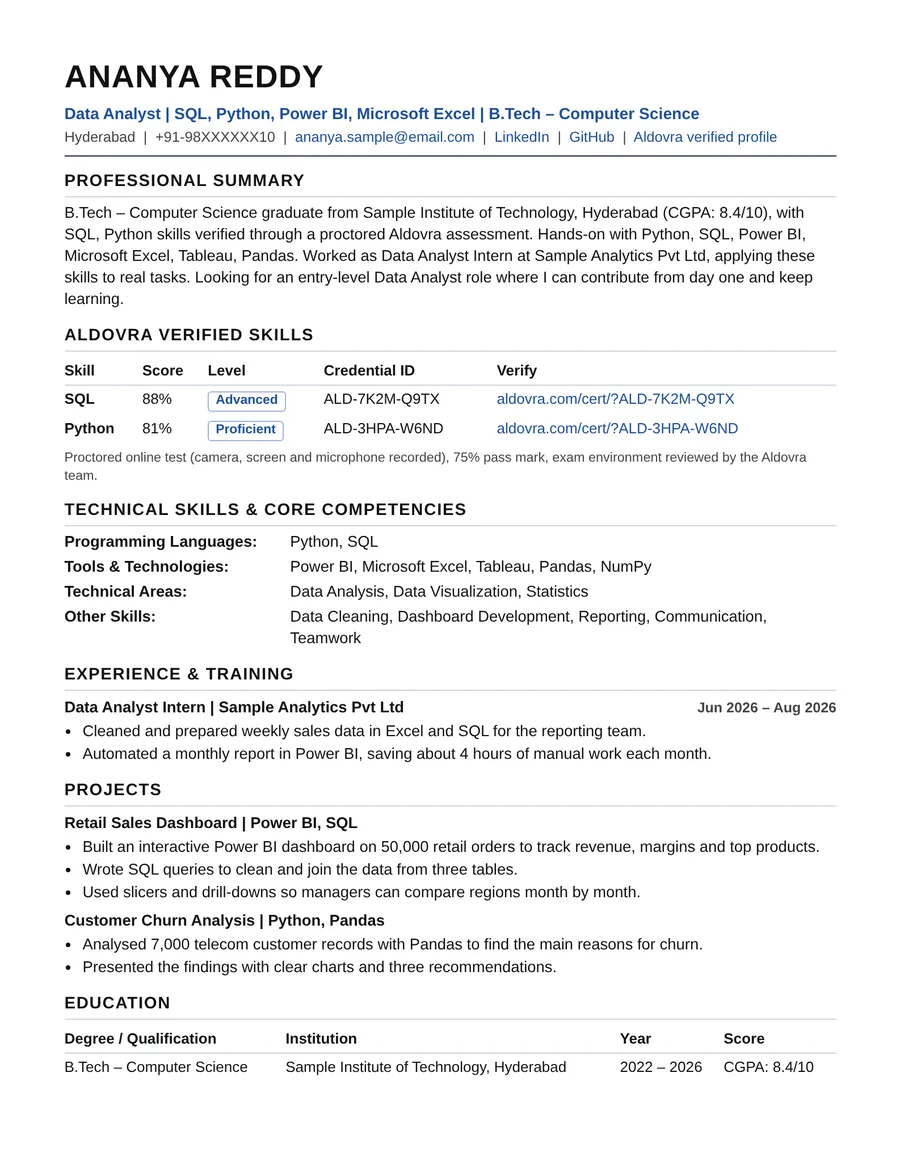
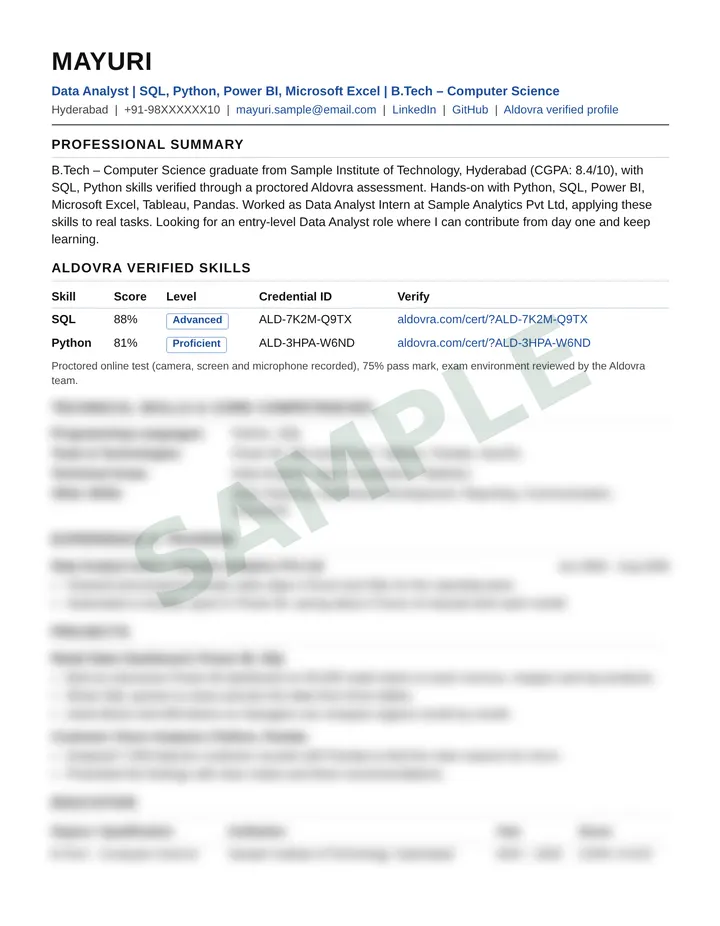
Free resume after 2 verified skills, Mayuri sample (blurred, watermarked), skill-proof copy
Claude-Session: https://claude.ai/code/session_019jV2zAcB7mkc4ACKm9a4UF

diff --git a/privacy.html b/privacy.html
@@ -17,6 +17,6 @@
 <link rel="stylesheet" href="/assets/aldovra-pages.css?v=20261112">
 <link rel="stylesheet" href="/assets/aldovra-brand.css?v=20261112">
 <meta name="theme-color" content="#0d0d12">
-</head><body class="ald-page" data-guide="off"><header><a class="brand" href="index.html">Aldovra</a><a href="index.html">← Back to home</a></header><main><h1>Privacy Policy</h1><p><strong>Last updated: 13 November 2026</strong></p><p>This policy explains how Aldovra may collect and use information when you use the website and platform. The exact data processed depends on the features you use and the services enabled in the current release.</p><h2>1. Information we may collect</h2><ul><li>Account and profile details such as name, email, phone number, education, location and career preferences.</li><li>Resumes and information you choose to provide for resume analysis or career guidance.</li><li>Assessment responses, scores, attempt records and related integrity evidence where the assessment feature explicitly uses it.</li><li>Support messages, feedback, and transaction references if paid services are enabled.</li><li>Technical and usage information needed for security, troubleshooting and platform operation.</li></ul><h2>2. How information is used</h2><p>Information may be used to create and maintain your profile, provide resume insights, deliver assessments, record results, match opportunities, respond to support requests, protect the platform, prevent misuse and meet legal obligations.</p><h2>3. AI and automated processing</h2><p>Some features may use automated or AI-assisted processing to analyse resume text, suggest skills or provide career guidance. These outputs can be incomplete or inaccurate and should be reviewed. Do not upload information you are not authorised to share.</p><h2>4. Sharing and service providers</h2><p>Information may be processed by infrastructure and service providers that support hosting, authentication, databases, AI features, security or payments when those services are enabled. We do not claim that every possible feature or provider is active in every release. Information may also be disclosed when required by law or to protect users and the platform.</p><h2>5. Resumes, assessment evidence and recruiter visibility</h2><p>We aim to use uploaded resumes and assessment information to provide the requested platform features. Where a feature makes a profile or result visible to recruiters, the platform should explain that visibility in the relevant flow. Avoid uploading sensitive personal data that is not needed for your career profile. Contact us if you have questions about visibility or deletion. When you verify a skill, our team may read your uploaded resume and verified results to prepare a resume for you and email it to your registered address.</p><h2>6. Security and retention</h2><p>We use reasonable measures intended to protect information, but no online service can guarantee absolute security. During a monitored assessment we record your camera and screen (stored as compressed images), low-quality audio, and the assessment events. These files are deleted automatically 7 days after an attempt that scores below 75%, 90 days after a passing attempt, and 7 days after an unfinished session. We keep only your two most recent resume files. Your environment video stays on your own YouTube account; we store only its link. Other information is retained for as long as reasonably needed for platform operation, records, dispute handling, security or legal requirements, then deleted or de-identified.</p><h2>7. Your requests</h2><p>You may contact us to request access, correction or deletion of personal information, subject to identity verification and applicable legal or operational retention requirements. We will review requests in accordance with applicable law.</p><h2>8. Children</h2><p>The platform is designed for students and job seekers. If you believe a child has provided personal information inappropriately, contact us so we can review the situation.</p><h2>9. Changes and contact</h2><p>We may update this policy as the platform changes. For privacy questions or requests, email <a href="mailto:support@aldovra.com">support@aldovra.com</a>.</p></main><footer><div class="links"><a href="about.html">About</a><a href="contact.html">Contact</a><a href="terms.html">Terms</a><a href="refund.html">Refunds</a><a href="assessment-pricing.html">Assessment pricing</a><a href="shipping.html">Delivery policy</a></div><p>© 2026 Aldovra. All rights reserved.</p></footer>
+</head><body class="ald-page" data-guide="off"><header><a class="brand" href="index.html">Aldovra</a><a href="index.html">← Back to home</a></header><main><h1>Privacy Policy</h1><p><strong>Last updated: 13 November 2026</strong></p><p>This policy explains how Aldovra may collect and use information when you use the website and platform. The exact data processed depends on the features you use and the services enabled in the current release.</p><h2>1. Information we may collect</h2><ul><li>Account and profile details such as name, email, phone number, education, location and career preferences.</li><li>Resumes and information you choose to provide for resume analysis or career guidance.</li><li>Assessment responses, scores, attempt records and related integrity evidence where the assessment feature explicitly uses it.</li><li>Support messages, feedback, and transaction references if paid services are enabled.</li><li>Technical and usage information needed for security, troubleshooting and platform operation.</li></ul><h2>2. How information is used</h2><p>Information may be used to create and maintain your profile, provide resume insights, deliver assessments, record results, match opportunities, respond to support requests, protect the platform, prevent misuse and meet legal obligations.</p><h2>3. AI and automated processing</h2><p>Some features may use automated or AI-assisted processing to analyse resume text, suggest skills or provide career guidance. These outputs can be incomplete or inaccurate and should be reviewed. Do not upload information you are not authorised to share.</p><h2>4. Sharing and service providers</h2><p>Information may be processed by infrastructure and service providers that support hosting, authentication, databases, AI features, security or payments when those services are enabled. We do not claim that every possible feature or provider is active in every release. Information may also be disclosed when required by law or to protect users and the platform.</p><h2>5. Resumes, assessment evidence and recruiter visibility</h2><p>We aim to use uploaded resumes and assessment information to provide the requested platform features. Where a feature makes a profile or result visible to recruiters, the platform should explain that visibility in the relevant flow. Avoid uploading sensitive personal data that is not needed for your career profile. Contact us if you have questions about visibility or deletion. When you verify skills, our team may read your uploaded resume and verified results to prepare a resume for you and email it to your registered address.</p><h2>6. Security and retention</h2><p>We use reasonable measures intended to protect information, but no online service can guarantee absolute security. During a monitored assessment we record your camera and screen (stored as compressed images), low-quality audio, and the assessment events. These files are deleted automatically 7 days after an attempt that scores below 75%, 90 days after a passing attempt, and 7 days after an unfinished session. We keep only your two most recent resume files. Your environment video stays on your own YouTube account; we store only its link. Other information is retained for as long as reasonably needed for platform operation, records, dispute handling, security or legal requirements, then deleted or de-identified.</p><h2>7. Your requests</h2><p>You may contact us to request access, correction or deletion of personal information, subject to identity verification and applicable legal or operational retention requirements. We will review requests in accordance with applicable law.</p><h2>8. Children</h2><p>The platform is designed for students and job seekers. If you believe a child has provided personal information inappropriately, contact us so we can review the situation.</p><h2>9. Changes and contact</h2><p>We may update this policy as the platform changes. For privacy questions or requests, email <a href="mailto:support@aldovra.com">support@aldovra.com</a>.</p></main><footer><div class="links"><a href="about.html">About</a><a href="contact.html">Contact</a><a href="terms.html">Terms</a><a href="refund.html">Refunds</a><a href="assessment-pricing.html">Assessment pricing</a><a href="shipping.html">Delivery policy</a></div><p>© 2026 Aldovra. All rights reserved.</p></footer>
 <script src="/assets/aldovra-pages.js"></script>
 </body></html>

diff --git a/index.html b/index.html
@@ -732,7 +732,7 @@ section[id], [id].anchor, #top { scroll-margin-top: 96px; }
       </div>
       <div class="why-grid">
         <div class="why-card" data-reveal><span class="wn">01</span><h3>A proof link for LinkedIn and your resume</h3><p>Your verified skills on one page, each with a certificate recruiters can check in seconds.</p></div>
-        <div class="why-card" data-reveal style="--d:80ms"><span class="wn">02</span><h3>A resume made for you</h3><p>After your first verified skill, we prepare a clean resume with your verified skills and email it to you.</p></div>
+        <div class="why-card" data-reveal style="--d:80ms"><span class="wn">02</span><h3>A resume made for you</h3><p>Verify 2 skills and we prepare a clean resume with your skill proof added, and email it to you.</p></div>
         <div class="why-card" data-reveal style="--d:160ms"><span class="wn">03</span><h3>First in line for recruiters</h3><p>We are bringing hiring teams onto Aldovra now. When they search, only verified students appear, so you are in the pool from day one.</p></div>
         <div class="why-card" data-reveal style="--d:240ms"><span class="wn">04</span><h3>Stand out when you apply</h3><p>Proof sets you apart from hundreds of applications that only make a claim.</p></div>
       </div>
@@ -745,22 +745,22 @@ section[id], [id].anchor, #top { scroll-margin-top: 96px; }
     <div class="wrap">
       <div class="rs-wrap" data-reveal>
         <div>
-          <span class="rs-kicker">Free with your first verified skill</span>
-          <h2>Pass one skill. <em>We build your resume.</em></h2>
-          <p class="rs-lead">Most freshers send the same resume as everyone else. Verify a skill on Aldovra and our team prepares a professional resume for you, with proof built in.</p>
+          <span class="rs-kicker">Free when you verify 2 skills</span>
+          <h2>Prove your skills. <em>We build your resume.</em></h2>
+          <p class="rs-lead">Most freshers send the same resume as everyone else. Verify 2 skills on Aldovra and our team prepares a professional resume for you, with your skill proof added.</p>
           <ul class="rs-list">
+            <li><span class="ck">✓</span><span><b>Your skill proof added.</b> Every verified skill with its score, level and a credential link anyone can check in one click.</span></li>
             <li><span class="ck">✓</span><span><b>Clean, ATS-friendly layout</b> that hiring software and HR can read easily.</span></li>
-            <li><span class="ck">✓</span><span><b>Your verified skills with credential links.</b> Anyone can check your score in one click.</span></li>
             <li><span class="ck">✓</span><span><b>Made by our team and emailed to you.</b> No templates to fight with, no extra cost.</span></li>
           </ul>
           <div class="rs-cta">
             <a href="signup.html" class="btn btn-dark" data-magnetic><span>Start your free test</span><span class="arr">→</span></a>
-            <small>First test free. Sample resume shown, details changed.</small>
+            <small>Your first test is free. Sample only; your resume is made for you.</small>
           </div>
         </div>
         <div class="rs-art" aria-hidden="true">
-          <div class="rs-paper"><img src="assets/sample-resume.webp" alt="" width="900" height="1157" loading="lazy" decoding="async"></div>
-          <span class="rs-tag t1"><i></i>Verified SQL · 88%</span>
+          <div class="rs-paper"><img src="assets/sample-resume.webp?v=20261117b" alt="" width="720" height="926" loading="lazy" decoding="async"></div>
+          <span class="rs-tag t1"><i></i>Skill proof added</span>
           <span class="rs-tag t2"><i></i>Credential link included</span>
         </div>
       </div>
@@ -826,7 +826,7 @@ section[id], [id].anchor, #top { scroll-margin-top: 96px; }
       <div class="bands">
         <article class="band v" data-reveal data-band>
           <div class="score">75%+</div>
-          <div><h3>Verified skill</h3><p>Score 75% or above, submit your exam video, and after our review you get a verified certificate, a proof link for LinkedIn and a resume we prepare for you.</p></div>
+          <div><h3>Verified skill</h3><p>Score 75% or above, submit your exam video, and after our review you get a verified certificate, and a proof link for LinkedIn. Verify 2 skills and we prepare your resume too.</p></div>
           <div class="status"><span class="mono">Verified eligible</span></div>
           <div class="band-meter"><i style="--from:75%;--to:100%"></i></div>
         </article>
@@ -960,7 +960,7 @@ section[id], [id].anchor, #top { scroll-margin-top: 96px; }
           <span class="mono">First assessment attempt</span>
           <div class="amt">FREE</div>
           <p class="sub">No payment required for your first attempt.</p>
-          <ul><li>Score + evidence recorded</li><li>75%+ → verified certificate</li><li>Free resume made for you</li></ul>
+          <ul><li>Score + evidence recorded</li><li>75%+ → verified certificate</li><li>Verify 2 skills → free resume</li></ul>
           <a href="before-you-begin.html" class="btn btn-dark" data-magnetic><span>Start free assessment</span><span class="arr">→</span></a>
         </div>
         <div class="price" data-reveal style="--d:100ms">
@@ -1042,7 +1042,7 @@ section[id], [id].anchor, #top { scroll-margin-top: 96px; }
         <div class="faq-item open"><button class="faq-q" type="button" aria-expanded="true">Is the first assessment really free?<span class="pm"></span></button><div class="faq-a"><div><p>Yes. Your first assessment attempt is free. No payment is required. You only pay if you choose to reattempt.</p></div></div></div>
         <div class="faq-item"><button class="faq-q" type="button" aria-expanded="false">What makes a profile “verified”?<span class="pm"></span></button><div class="faq-a"><div><p>A score of 75% or above makes your skill profile eligible to be shown as a verified profile for HR and recruiter preview and further hiring steps.</p></div></div></div>
         <div class="faq-item"><button class="faq-q" type="button" aria-expanded="false">How much does a reattempt cost?<span class="pm"></span></button><div class="faq-a"><div><p>Every reattempt costs ₹49, whatever your score. There is a 24-hour gap between attempts, and you can take up to 10 attempts of a skill in 30 days. Each attempt has new questions.</p></div></div></div>
-        <div class="faq-item"><button class="faq-q" type="button" aria-expanded="false">Why pay to verify a skill if I can just list it?<span class="pm"></span></button><div class="faq-a"><div><p>Anyone can list a skill. A verified skill comes with a proctored score and a certificate link that recruiters can check, a resume we prepare for you, and a place in the verified pool that recruiters joining Aldovra search. Your first test is free. We never charge for jobs, and we don't guarantee interviews.</p></div></div></div>
+        <div class="faq-item"><button class="faq-q" type="button" aria-expanded="false">Why pay to verify a skill if I can just list it?<span class="pm"></span></button><div class="faq-a"><div><p>Anyone can list a skill. A verified skill comes with a proctored score and a certificate link that recruiters can check, a resume we prepare for you once 2 skills are verified, and a place in the verified pool that recruiters joining Aldovra search. Your first test is free. We never charge for jobs, and we don't guarantee interviews.</p></div></div></div>
         <div class="faq-item"><button class="faq-q" type="button" aria-expanded="false">Does Aldovra replace my resume?<span class="pm"></span></button><div class="faq-a"><div><p>No. Aldovra adds a skill-verification layer so hiring teams can review assessment-backed information alongside your broader profile.</p></div></div></div>
         <div class="faq-item"><button class="faq-q" type="button" aria-expanded="false">Where do the fresher jobs come from?<span class="pm"></span></button><div class="faq-a"><div><p>From companies' own career pages, filtered for fresher and entry-level roles in India. New roles are added every day and links are re-checked regularly, so closed jobs are removed automatically. You'll find them in your student dashboard after you sign up.</p></div></div></div>
         <div class="faq-item"><button class="faq-q" type="button" aria-expanded="false">Which profiles can recruiters see?<span class="pm"></span></button><div class="faq-a"><div><p>Only profiles with a score of 75% or above are eligible to be shown as verified profiles for HR and recruiter preview.</p></div></div></div>

diff --git a/assets/dashboard/dash-motivate.js b/assets/dashboard/dash-motivate.js
@@ -125,7 +125,7 @@
     } catch (e) { /* the card is optional */ } finally { bundleBusy = false; }
   }
 
-  /* ---- Free resume card on Overview (17 Nov 2026): the benefit students get after their first verified skill ---- */
+  /* ---- Free resume card on Overview (17 Nov 2026): the benefit students get after 2 verified skills ---- */
   async function renderResumeCard() {
     var uid = window.currentUser && window.currentUser.id;
     var anchor = document.querySelector(".aldm") || document.querySelector(".overview-hero");
@@ -139,15 +139,22 @@
     var el = document.createElement("section");
     el.id = "aldResumeCard";
     el.className = "aldmo-resume";
+    /* 17 Nov 2026: the free resume needs 2 verified skills (one free + at least one paid test). */
+    var NEED = 2, left = Math.max(0, NEED - certs);
+    var kicker = left ? "Free when you verify " + NEED + " skills" : "Your free resume";
+    var title = left === 0 ? "We are preparing your resume" : left === 1 ? "One more verified skill. <em>Then we build your resume.</em>" : "Prove your skills. <em>We build your resume.</em>";
+    var text = left === 0
+      ? "You have " + certs + " verified skills. Our team is preparing a professional resume with your skill proof added, and will email it to you."
+      : left === 1
+        ? "You have 1 verified skill. Verify one more and our team prepares a professional, ATS-friendly resume with your skill proof added (score, level and credential link for each skill), and emails it to you."
+        : "Verify 2 skills (75% or more with an approved video). Our team then prepares a professional, ATS-friendly resume with your skill proof added, and emails it to you. No extra cost.";
     el.innerHTML =
-      '<div class="aldmo-rtext"><span class="aldmo-bk">' + (certs ? "Your free resume" : "Free with your first verified skill") + "</span>" +
-      "<h3>" + (certs ? "We are preparing your resume" : "Pass one skill. <em>We build your resume.</em>") + "</h3>" +
-      "<p>" + (certs
-        ? "You have " + certs + " verified skill" + (certs === 1 ? "" : "s") + ". Our team is preparing a professional resume with your verified skills and credential links, and will email it to you."
-        : "Score 75% or more and get your video approved. Our team then prepares a professional, ATS-friendly resume with your verified skills and credential links, and emails it to you. No extra cost.") + "</p>" +
-      '<div class="aldmo-ract">' + (certs ? "" : '<button type="button" class="aldmo-btn" data-ald-go="assessments">Go to my tests</button>') +
-      '<a class="aldmo-btn2" href="/assets/sample-resume.webp" target="_blank" rel="noopener">See a sample resume</a></div></div>' +
-      '<a class="aldmo-rimg" href="/assets/sample-resume.webp" target="_blank" rel="noopener" aria-label="See a sample resume"><img src="/assets/sample-resume.webp" alt="" loading="lazy" width="900" height="1157"></a>';
+      '<div class="aldmo-rtext"><span class="aldmo-bk">' + kicker + "</span><h3>" + title + "</h3><p>" + text + "</p>" +
+      '<div class="aldmo-ract">' + (left ? '<button type="button" class="aldmo-btn" data-ald-go="assessments">Go to my tests</button>' : "") +
+      '<a class="aldmo-btn2" href="/assets/sample-resume.webp?v=20261117b" target="_blank" rel="noopener">See a sample resume</a></div>' +
+      (left ? '<ol class="aldmo-rsteps" aria-label="Resume progress">' + [0, 1].map(function (i) { return '<li class="' + (i < certs ? "done" : "") + '">Skill ' + (i + 1) + (i < certs ? " verified" : "") + "</li>"; }).join("") + '<li class="' + (left ? "" : "done") + '">Resume</li></ol>' : "") +
+      "</div>" +
+      '<a class="aldmo-rimg" href="/assets/sample-resume.webp?v=20261117b" target="_blank" rel="noopener" aria-label="See a sample resume"><img src="/assets/sample-resume.webp?v=20261117b" alt="" loading="lazy" width="720" height="926"></a>';
     anchor.parentNode.insertBefore(el, anchor.nextSibling);
     var go = el.querySelector("[data-ald-go]");
     if (go) go.onclick = function () { var nav = document.querySelector('.sidebar .nav-item[data-section="assessments"]'); if (nav) nav.click(); };

diff --git a/dashboard.html b/dashboard.html
@@ -59,7 +59,7 @@
 <link rel="stylesheet" href="/assets/aldovra-polish.css?v=20261113e">
 <link rel="stylesheet" href="/assets/dashboard/dash-jobs-value.css?v=e1bb3628">
 <link rel="stylesheet" href="/assets/dashboard/dash-welcome.css?v=3f91e5f0">
-<link rel="stylesheet" href="/assets/dashboard/dash-mission.css?v=9aaa81d1">
+<link rel="stylesheet" href="/assets/dashboard/dash-mission.css?v=87cb4d6e">
 <meta name="theme-color" content="#0d0d12">
 </head>
 <body>
@@ -2179,11 +2179,11 @@ box-sizing:border-box;
 <script src="https://cdn.jsdelivr.net/npm/@supabase/supabase-js@2"></script>
 <script src="/assets/aldovra-resume-skills.js?v=20261112"></script>
 <script src="/assets/aldovra-evidence-viewer.js?v=20261112"></script>
-<script src="/assets/aldovra-result-review.js?v=20261117"></script>
+<script src="/assets/aldovra-result-review.js?v=20261117b"></script>
 <script src="/assets/dashboard/dash-main.js?v=16277d0f"></script>
 <script src="/assets/dashboard/dash-welcome.js?v=edea0cab"></script>
-<script src="/assets/dashboard/dash-motivate.js?v=a78ddabb"></script>
-<script src="/assets/dashboard/dash-mission.js?v=5e15d48d"></script>
+<script src="/assets/dashboard/dash-motivate.js?v=d4aa57dd"></script>
+<script src="/assets/dashboard/dash-mission.js?v=c8898731"></script>
 <script src="/assets/dashboard/dash-notify.js?v=f60238ca"></script>
 <script src="/assets/dashboard/dash-account.js?v=0acebd6b"></script>
 
@@ -2224,7 +2224,7 @@ box-sizing:border-box;
 
 <script src="/assets/dashboard/dash-company-domains.js?v=5d8210d4"></script>
 <script src="/assets/dashboard/dash-jobs.js?v=df9a686a"></script>
-<script src="/assets/dashboard/dash-jobs-value.js?v=bfb54eff"></script>
+<script src="/assets/dashboard/dash-jobs-value.js?v=3d2b4ae0"></script>
 
 <script id="aldovra-profile-modal-root-fix" src="/assets/dashboard/dash-profile-modal-fix.js?v=b5a75d18"></script>
 

diff --git a/assets/aldovra-result-review.js b/assets/aldovra-result-review.js
@@ -189,7 +189,7 @@
       nextHtml = '<section class="rr-card rr-next"><h3>What happens next</h3><p>Reviews usually finish within 24–48 hours. Keep the video Unlisted (not Private) until then.</p>' + track +
         (m.videoUrl ? '<div class="rr-actions" style="margin-top:14px"><a class="rr-btn" href="' + esc(m.videoUrl) + '" target="_blank" rel="noopener">▶ Open submitted video</a></div>' : "") + "</section>";
     } else if (state === "verified") {
-      nextHtml = '<section class="rr-card rr-next"><h3>Make it count</h3><p>Verified skills earn Arena points, show on your public profile and certificate, and go on the resume we prepare for you.</p>' + track +
+      nextHtml = '<section class="rr-card rr-next"><h3>Make it count</h3><p>Verified skills earn Arena points, show on your public profile and certificate, and count towards the free resume we prepare once you have 2 verified skills.</p>' + track +
         '<div class="rr-actions" style="margin-top:14px"><a class="rr-btn" href="#jobs" data-rr-close>Explore fresher jobs →</a><a class="rr-btn" href="#leaderboard" data-rr-close>See your Arena rank</a></div></section>';
     } else if (state === "reattempt" || state === "unverified") {
       /* Retry plan (17 Nov 2026): a failed attempt should still leave the student with a clear plan. */

diff --git a/assets/dashboard/dash-mission.css b/assets/dashboard/dash-mission.css
@@ -147,3 +147,8 @@ body.dark .aldmo-ract .btn-secondary,[data-theme="dark"] .aldmo-ract .btn-second
 .aldmo-btn2{background:#fff;color:#0d0d12;border:1px solid #e4e1d8}
 .aldmo-btn2:hover{border-color:#14532d;color:#14532d}
 body.dark .aldmo-btn2,[data-theme="dark"] .aldmo-btn2{background:#1b1f1c;border-color:#2a2e2b;color:#f3f2ee}
+.aldmo-rsteps{list-style:none;display:flex;gap:6px;padding:0;margin:14px 0 0;flex-wrap:wrap}
+.aldmo-rsteps li{font-size:12px;padding:4px 10px;border-radius:999px;border:1px dashed #cfcbbf;color:#6b6b75}
+.aldmo-rsteps li.done{border-style:solid;border-color:#14532d;background:#e3efe5;color:#0f3d22;font-weight:600}
+body.dark .aldmo-rsteps li,[data-theme="dark"] .aldmo-rsteps li{border-color:#3a3f3b;color:#b9b9c2}
+body.dark .aldmo-rsteps li.done,[data-theme="dark"] .aldmo-rsteps li.done{background:rgba(124,196,149,.14);border-color:#7cc495;color:#cfe9d7}

diff --git a/assets/dashboard/dash-mission.js b/assets/dashboard/dash-mission.js
@@ -215,7 +215,7 @@
       "</div>" +
       '<div class="aldm-side">' + stepsHtml(done) +
         (expect ? '<div class="aldm-expect"><b>What to expect</b><ul>' + expectList(s.req).map(function (e) { return "<li>" + svg(e[0]) + esc(e[1]) + "</li>"; }).join("") + "</ul></div>" :
-          '<div class="aldm-reward"><b>When you’re verified</b><ul><li>' + svg("badge") + "Certificate + proof link for LinkedIn</li><li>" + svg("check") + "A resume we prepare for you</li><li>" + svg("share") + "In the verified pool for recruiters</li></ul></div>") +
+          '<div class="aldm-reward"><b>When you’re verified</b><ul><li>' + svg("badge") + "Certificate + proof link for LinkedIn</li><li>" + svg("check") + "Verify 2 skills: a resume we prepare for you</li><li>" + svg("share") + "In the verified pool for recruiters</li></ul></div>") +
       "</div>";
     showDemand(el, s);
   }

diff --git a/assets/dashboard/dash-jobs-value.js b/assets/dashboard/dash-jobs-value.js
@@ -82,7 +82,7 @@
     } else {
       card.classList.remove("is-done");
       h.innerHTML = "Verified skills get you <em>noticed first.</em>";
-      perks.innerHTML = "<li>Proof link for LinkedIn and your resume</li><li>A resume we prepare for you</li><li>In the verified pool for recruiters joining Aldovra</li><li>Unlock the Verified matches tab</li>";
+      perks.innerHTML = "<li>Proof link for LinkedIn and your resume</li><li>Verify 2 skills: a resume we prepare for you</li><li>In the verified pool for recruiters joining Aldovra</li><li>Unlock the Verified matches tab</li>";
       btn.textContent = ready > 0 ? "Start free assessment" : "See assessments";
       btn.onclick = goAssessments;
       note.textContent = ready > 0 ? ready + " skill" + (ready === 1 ? "" : "s") + " from your resume ready" : "Upload your resume to get skill tests";

diff --git a/assessment.html b/assessment.html
@@ -4454,7 +4454,7 @@ init();
 
 <script src="/assets/aldovra-mascot.js?v=20261112"></script>
 <script src="/assets/aldovra-proctor.js?v=20261112"></script>
-<script src="/assets/aldovra-result-review.js?v=20261117"></script>
+<script src="/assets/aldovra-result-review.js?v=20261117b"></script>
 <script src="/assets/aldovra-result.js?v=20261117"></script>
 <script src="/assets/aldovra-envguide.js?v=20261113"></script>
 <script src="/assets/aldovra-envgate.js?v=20261113"></script>

diff --git a/CLAUDE.md b/CLAUDE.md
@@ -73,7 +73,7 @@ Goal: show students only live fresher or entry-level jobs in India, with new job
 
 ## Payments (Razorpay, PayU fallback)
 - Razorpay (13 Nov 2026): new account as a registered Sole Proprietorship (Udyam + S&E, no GST), category Education, website aldovra.com approved, brand name ALDOVRA on checkout and UPI. Live keys are in Supabase secrets `RAZORPAY_KEY_ID` / `RAZORPAY_KEY_SECRET`. `platform_settings.payment_provider` = `"razorpay"` | `"payu"` (anon RPC `payment_provider()`; migration `20261113170000_payment_provider_razorpay.sql`). `create-payu-payment` (name kept) runs all the fee/cooldown/cap checks, then for Razorpay creates an order (`/v1/orders`, receipt `ALDR|ALDS<request>-<ts>`) and an `assessment_payments` row (`provider='razorpay'`, `razorpay_order_id`); the dashboard (`aldovraOpenCheckout()` in dash-main.js) loads checkout.js and opens the modal (name ALDOVRA, green theme). On success it calls `verify-razorpay-payment` ({order_id,payment_id,signature}), which trusts only Razorpay's `/orders/{id}/payments` (captures an `authorized` payment if needed), marks paid and approves new-skill requests, then redirects to `dashboard.html?payment=success|pending`. The dashboard also calls it with `{reconcile:true}` 4 s after load to settle orders whose tab closed (last 3 days, max 5); orders with no successful payment after 2 h are marked failed. No webhook yet (optional later: `payment.captured` with a webhook secret). Consent versions: `2026-11-13` (PayU wording, proprietor name) and `2026-11-13-rzp` (Razorpay wording, receiver ALDOVRA); the dialog picks by `window.ALDOVRA_PAY_PROVIDER`. Policy pages say Razorpay with PayU as backup. Go-live: ₹50 reattempt test with Shiva bhai (request 9, 68%) → refund from the Razorpay dashboard → set `reattempt_payments_live = true`.
-- Pricing rules (changed 17 Nov 2026, founder's choice; the old 27 Oct rule was ₹50/₹100 by score and 4 attempts per 30 days): the first assessment is free; every later new-skill unlock and every reattempt is a flat **₹49** (`FEE` in `create-payu-payment`); 24 h cooldown; at most **10 attempts per skill per rolling 30 days** (`MAX_ATTEMPTS_30D`, also in generate-assessment, dash-main.js and assessment.html). Resume bundle: `{bundle:true}` to create-payu-payment (Razorpay only) unlocks every `payment_pending` skill of the student in one order, price `bundlePrice(n) = floor((n*49*0.85+1)/10)*10-1` (2→₹79, 3→₹119, 4→₹159, 5→₹199), stored as `purpose='bundle'` + `assessment_payments.bundle_request_ids`; verify-razorpay-payment approves those requests. Trigger `assessment_requests_flat_fee` forces any stored `unlock_fee` to 49 (migration `20261117190000_flat_fee_bundle.sql`). Dashboard: bundle card `#aldBundle` under the Assessments header and free-resume card `#aldResumeCard` under the next-step card (both in dash-motivate.js, `window.AldMotivate`, styles + `.aldmo-btn` in dash-mission.css), "One price for every test · no subscription" chip on rows with a pay button, `aldovraStartBundle()` in dash-main.js (pay dialog says "for N skill tests"). Failed results show "Your retry plan" (correct answers still needed for 75%, two weakest topics, next attempt time) in aldovra-result-review.js. Homepage: `#free-resume` section with `assets/sample-resume.webp` (fictional "Ananya Reddy" rendered by admin-resume.html), pricing cards Free / ₹49 / Resume bundle. Public copy (pricing, terms §4, refund §1, get-started, before-you-begin, index FAQ) states the same. Exams now require only `profiles.full_name` + an analysed resume (generate-assessment had still enforced the removed 9-field profile wall incl. bio/GitHub/LinkedIn until 17 Nov 2026).
+- Pricing rules (changed 17 Nov 2026, founder's choice; the old 27 Oct rule was ₹50/₹100 by score and 4 attempts per 30 days): the first assessment is free; every later new-skill unlock and every reattempt is a flat **₹49** (`FEE` in `create-payu-payment`); 24 h cooldown; at most **10 attempts per skill per rolling 30 days** (`MAX_ATTEMPTS_30D`, also in generate-assessment, dash-main.js and assessment.html). Resume bundle: `{bundle:true}` to create-payu-payment (Razorpay only) unlocks every `payment_pending` skill of the student in one order, price `bundlePrice(n) = floor((n*49*0.85+1)/10)*10-1` (2→₹79, 3→₹119, 4→₹159, 5→₹199), stored as `purpose='bundle'` + `assessment_payments.bundle_request_ids`; verify-razorpay-payment approves those requests. Trigger `assessment_requests_flat_fee` forces any stored `unlock_fee` to 49 (migration `20261117190000_flat_fee_bundle.sql`). Dashboard: bundle card `#aldBundle` under the Assessments header and free-resume card `#aldResumeCard` under the next-step card (both in dash-motivate.js, `window.AldMotivate`, styles + `.aldmo-btn` in dash-mission.css), "One price for every test · no subscription" chip on rows with a pay button, `aldovraStartBundle()` in dash-main.js (pay dialog says "for N skill tests"). Failed results show "Your retry plan" (correct answers still needed for 75%, two weakest topics, next attempt time) in aldovra-result-review.js. Homepage: `#free-resume` section ("Prove your skills. We build your resume.") with `assets/sample-resume.webp` (fictional "Mayuri", founder's choice, rendered by admin-resume.html, 720 px, everything below the Verified Skills table blurred + a SAMPLE watermark so unverified students cannot copy the full layout), pricing cards Free / ₹49 / Resume bundle. The free resume needs **2 verified skills** (founder, 17 Nov 2026: with 1 it would come from the free test alone and nobody would pay for a second test); homepage, why-verify card, FAQ, mission/jobs perks, result view and the dashboard card (progress chips Skill 1 / Skill 2 / Resume) all say so; admin "Make resume" still works for anyone. Public copy (pricing, terms §4, refund §1, get-started, before-you-begin, index FAQ) states the same. Exams now require only `profiles.full_name` + an analysed resume (generate-assessment had still enforced the removed 9-field profile wall incl. bio/GitHub/LinkedIn until 17 Nov 2026).
 - New skill flow: `create-assessment-request`, when payments are live and the student already has a request, creates the request with `status='payment_pending'` plus `unlock_fee`. The dashboard shows "Pay ₹X to unlock", `create-payu-payment` handles `purpose='new_skill'`, and `payu-callback` approves the request on payment.
 - `/payu-test.html?t=<token>` is a one-time test checkout (test mode only). Create the token in `platform_settings.payu_test_token` with SQL.
 - Reattempt fee is decided on the server: flat ₹49 (since 17 Nov 2026); 75%+ → passed, so no reattempt. The 24-hour cooldown (changed from 1 week on 28 Oct 2026) and the cap of 10 attempts per skill per 30 days are enforced before payment.
